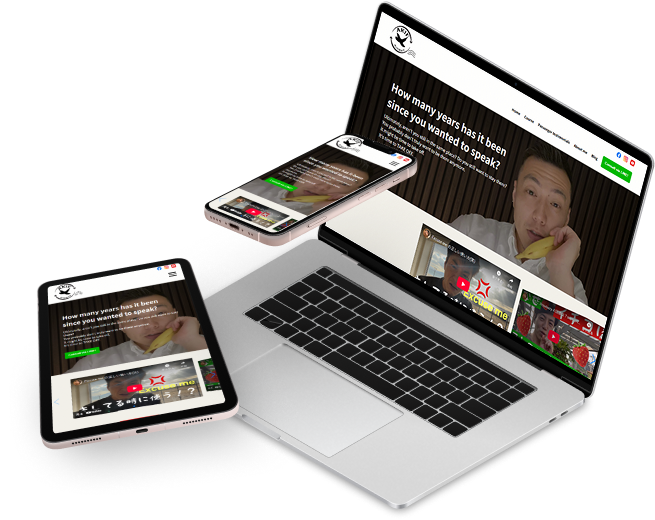
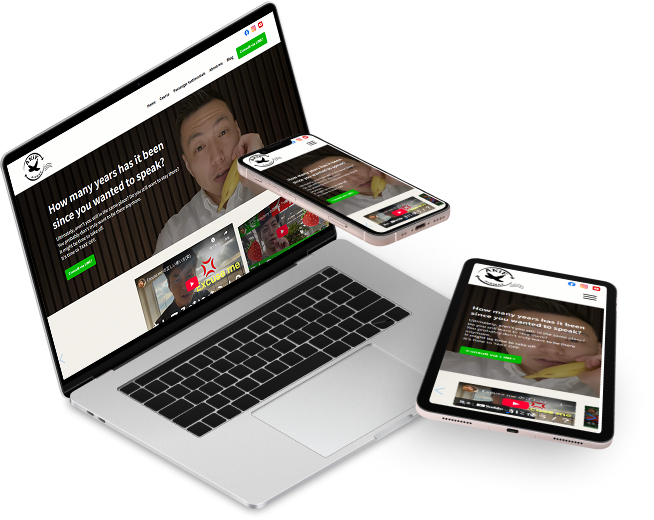
added new project

diff --git a/src/lib/db.ts b/src/lib/db.ts
@@ -4,6 +4,12 @@ import emailImg from "@/../public/FooterImages/Email.png"
 import linkedInImg from "@/../public/FooterImages/LinkedIn.png"
 import instagramImg from "@/../public/FooterImages/instagramLogo.png"
 /* Project Images */
+import SalesPMPC from "@/../public/ProjectImages/SalesPMPC.png"
+import SalesPMPCHover from "@/../public/ProjectImages/SalesPMPCHover.png"
+import SalesPMPCFull from "@/../public/ProjectImages/SalesPMPCFull.png"
+import SalesPMPhone from "@/../public/ProjectImages/SalesPMPhone.png"
+import SalesPMPhoneHover from "@/../public/ProjectImages/SalesPMPhoneHover.png"
+import SalesPMPCFullHover from "@/../public/ProjectImages/SalesPMPCFullHover.png"
 import AkifPC from "@/../public/ProjectImages/AkifPC.png"
 import AkifPCHover from "@/../public/ProjectImages/AkifPCHover.png"
 import AkifPCFull from "@/../public/ProjectImages/AkifPCFull.png"
@@ -333,6 +339,49 @@ export const MainDBEng:MainDBEntry[] = [
       clientProjects:{
         projectTypeName:"Client Projects",
         projects:[
+          {
+            projectName:"Sales-PM",
+            projectType:"Prospects management system",
+            myRole:"Full-Stack Engineer",
+            technologies:[
+              {
+                skillName:"Next.js",
+                skillImage:NextJSImg,
+              },
+              {
+                skillName:"Zustand",
+                skillImage:ZustandImg,
+              },
+              {
+                skillName:"Tailwind CSS",
+                skillImage:TailwindImg,
+              },
+              {
+                skillName:"NextAuth",
+                skillImage:NextAuthImg,
+              },
+              {
+                skillName:"Prisma",
+                skillImage:PrismaImg,
+              },
+              {
+                skillName:"MongoDB",
+                skillImage:MongoDBImg,
+              },
+              {
+                skillName:"Vercel",
+                skillImage:VercelImg,
+              },
+            ],
+            detail:"This is a application for sales people who are looking for prospects. The users can manage how urgent and what kind of topics their clients looking for. I built this app from design with Figma for my client, and all REST APIs and pages, also created Logo. If you are interested in this app, I can create your trial account.",
+            imagePC:SalesPMPC,
+            imagePCFull:SalesPMPCFull,
+            imagePCHover:SalesPMPCHover,
+            imagePCFullHover:SalesPMPCFullHover,
+            imagePhone:SalesPMPhone,
+            imagePhoneHover:SalesPMPhoneHover,
+            url:"https://sales-pm.vercel.app/",
+          },
           {
             projectName:"VanCastro Driving School",
             projectType:"Booking management system",
